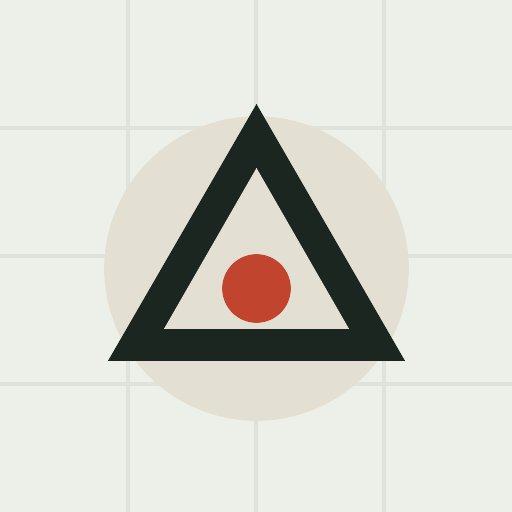
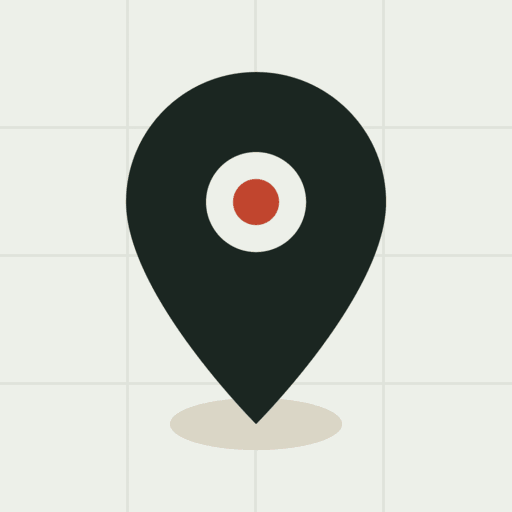
Posizione: la goccia al posto del triangolo trigonometrico
Il punto trigonometrico è il segno giusto su una carta topografica, ma a
26 pixel nella scheda del browser è un triangolo con un punto rosso
dentro: legge come un cartello di pericolo, non come «qui sei tu».

Al suo posto la goccia — il segno che chiunque riconosce — nei colori
del sito: inchiostro su carta reticolata, il foro chiaro e dentro il
punto rosso, che resta l'unico rosso della tavolozza. Sotto, l'ombra
ellittica che la tiene in piedi sul terreno.

Cambiata anche dentro la pagina, nel cerchio d'incertezza: l'icona e la
figura devono raccontare lo stesso segno. La classe non si chiama più
.trigonometrico ma .segno.

I PNG dell'app rigenerati dall'SVG a palette di 32 colori: 60 kB
diventano 6. La goccia sta dentro la zona sicura dell'icona mascherata
di Android (il punto più lontano dal centro è a 194 px su 204).

Cache del service worker a v3: i nomi dei file non cambiano, e senza
questo chi ha l'app sul telefono terrebbe le icone vecchie.

Claude-Session: https://claude.ai/code/session_01My3uJ6SgQqD7U88ZVeU7uE

Changed region(s): [[0.2188, 0.125, 0.8125, 0.9062]]

diff --git a/posizione/index.html b/posizione/index.html
@@ -60,7 +60,7 @@ h1{font-size:23px;font-weight:700;letter-spacing:-.015em}
 .rilevamento{display:flex;flex-direction:column;gap:14px}
 .rilevamento.preso{flex-direction:row;align-items:center;gap:15px}
 .rilevamento.preso .quadrante{width:76px;flex:0 0 76px;margin:0}
-.rilevamento.preso .trigonometrico{width:24px;height:24px}
+.rilevamento.preso .segno{width:24px;height:24px}
 .rilevamento.preso .lettura{text-align:left;flex:1;min-width:0}
 .rilevamento.preso .coord{font-size:19px}
 .rilevamento.preso .coppia{margin-top:7px;gap:10px}
@@ -73,9 +73,9 @@ h1{font-size:23px;font-weight:700;letter-spacing:-.015em}
 .alone{background:var(--isoipsa);opacity:.13;width:0;height:0}
 .bordo{border:1.5px dashed var(--isoipsa);opacity:.55;width:0;height:0}
 .quadrante.attivo .alone{opacity:.17}
-.trigonometrico{position:relative;width:34px;height:34px;opacity:0;transition:opacity .4s .5s}
-.quadrante.attivo .trigonometrico{opacity:1}
-.trigonometrico svg{width:100%;height:100%;display:block}
+.segno{position:relative;width:34px;height:34px;opacity:0;transition:opacity .4s .5s}
+.quadrante.attivo .segno{opacity:1}
+.segno svg{width:100%;height:100%;display:block}
 .cerca .bordo{width:82%!important;height:82%!important;opacity:.5;animation:respiro 1.5s ease-in-out infinite}
 @keyframes respiro{0%,100%{transform:scale(.72);opacity:.25}50%{transform:scale(1);opacity:.6}}
 .attesa{position:absolute;font-size:12px;letter-spacing:.18em;text-transform:uppercase;color:var(--tenue);font-weight:600}
@@ -195,10 +195,11 @@ a.tasto{
   <div class="quadrante" id="quadrante">
     <div class="alone" id="alone"></div>
     <div class="bordo" id="bordo"></div>
-    <div class="trigonometrico">
+    <div class="segno">
       <svg viewBox="0 0 34 34" aria-hidden="true">
-        <path d="M17 3 L31.7 29 L2.3 29 Z" fill="none" stroke="#1B2621" stroke-width="2" stroke-linejoin="round"/>
-        <circle cx="17" cy="21.5" r="3.4" fill="#C1452E"/>
+        <path d="M17 2.5 a10.5 10.5 0 0 0 -10.5 10.5 c0 7.9 10.5 18.5 10.5 18.5 s10.5 -10.6 10.5 -18.5 A10.5 10.5 0 0 0 17 2.5 Z" fill="#1B2621"/>
+        <circle cx="17" cy="13" r="4" fill="#EDF0E9"/>
+        <circle cx="17" cy="13" r="1.9" fill="#C1452E"/>
       </svg>
     </div>
     <div class="attesa" id="attesa">In attesa</div>

diff --git a/posizione/sw.js b/posizione/sw.js
@@ -1,6 +1,6 @@
 // Service worker: mette in cache i quattro file dell'app, così si apre
 // anche senza rete. Non tocca la posizione e non parla con nessun server.
-const CACHE = 'posizione-v2';
+const CACHE = 'posizione-v3';
 const FILE = ['./', './index.html', './manifest.json', './icona-180.png', './icona-192.png', './icona-512.png'];
 
 self.addEventListener('install', e => {
